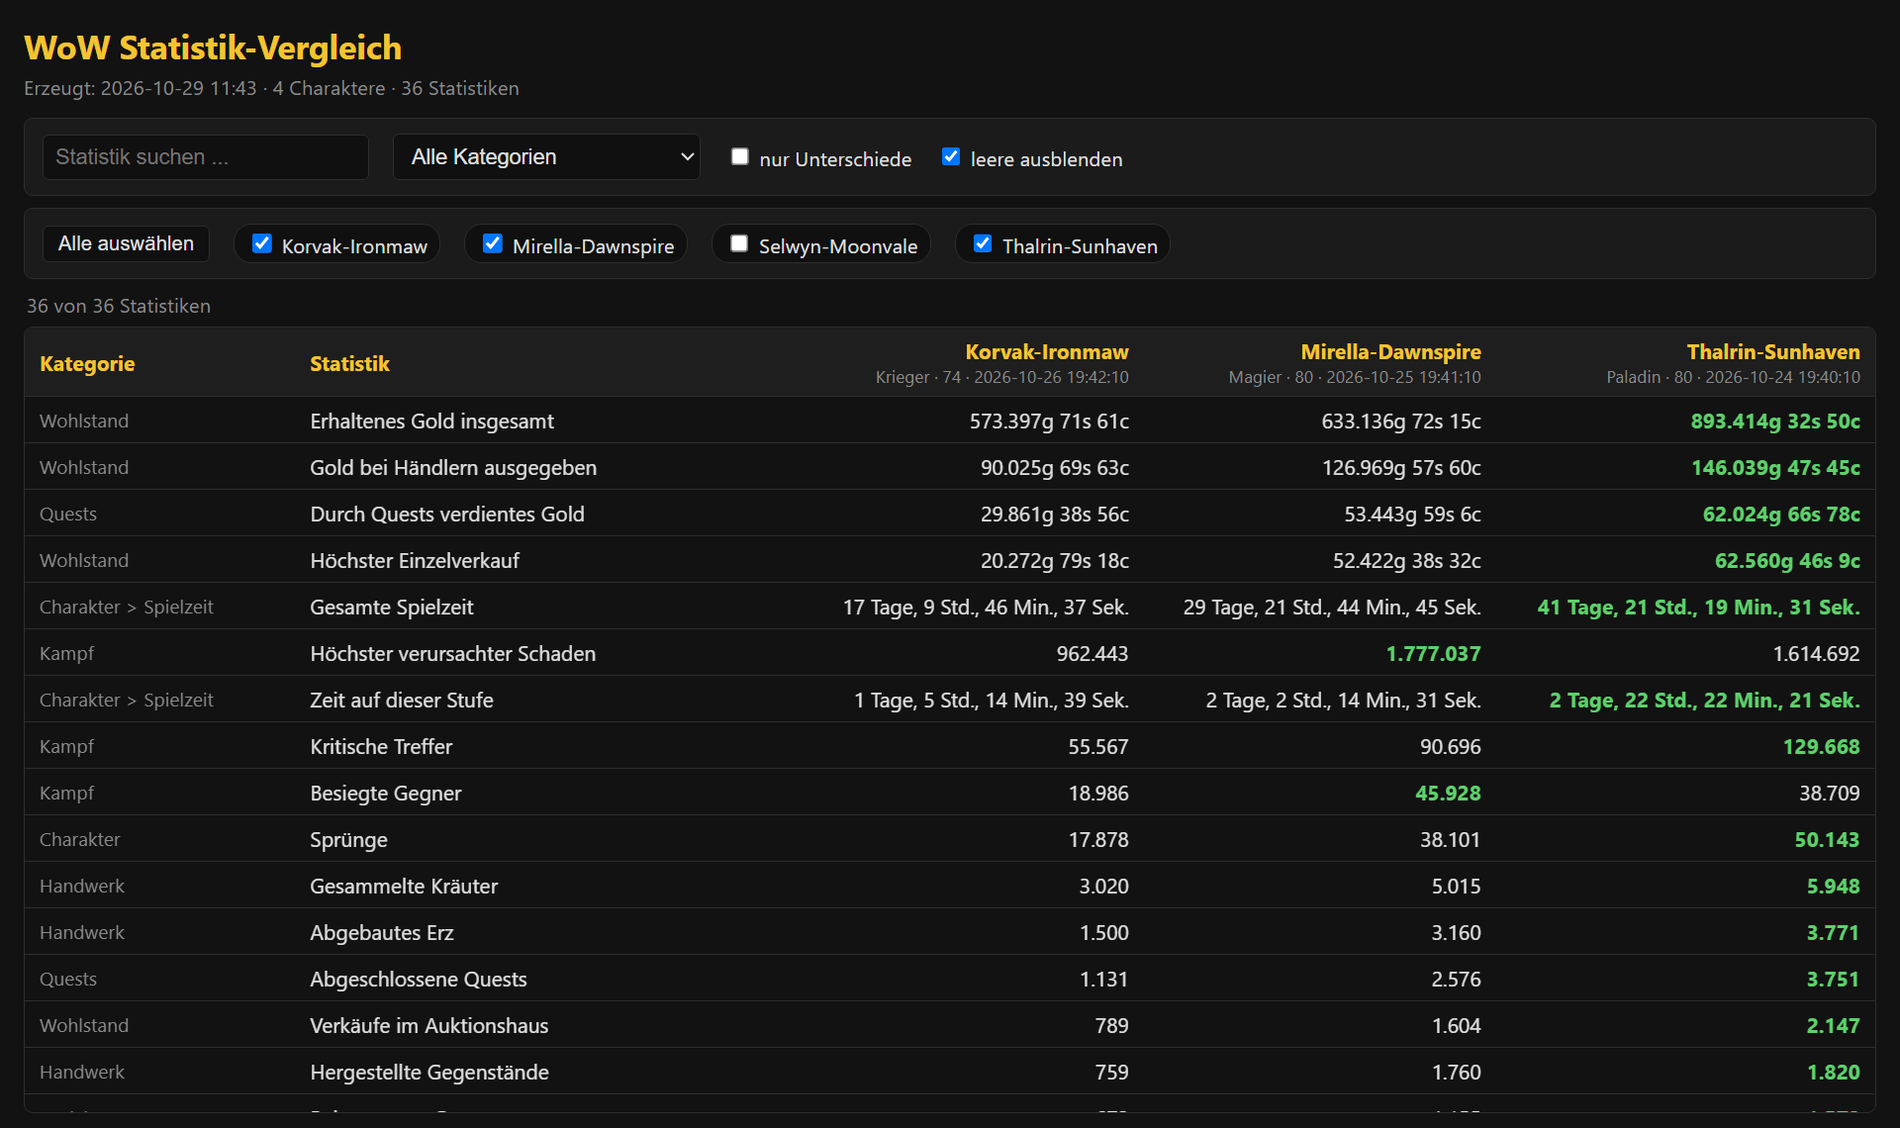
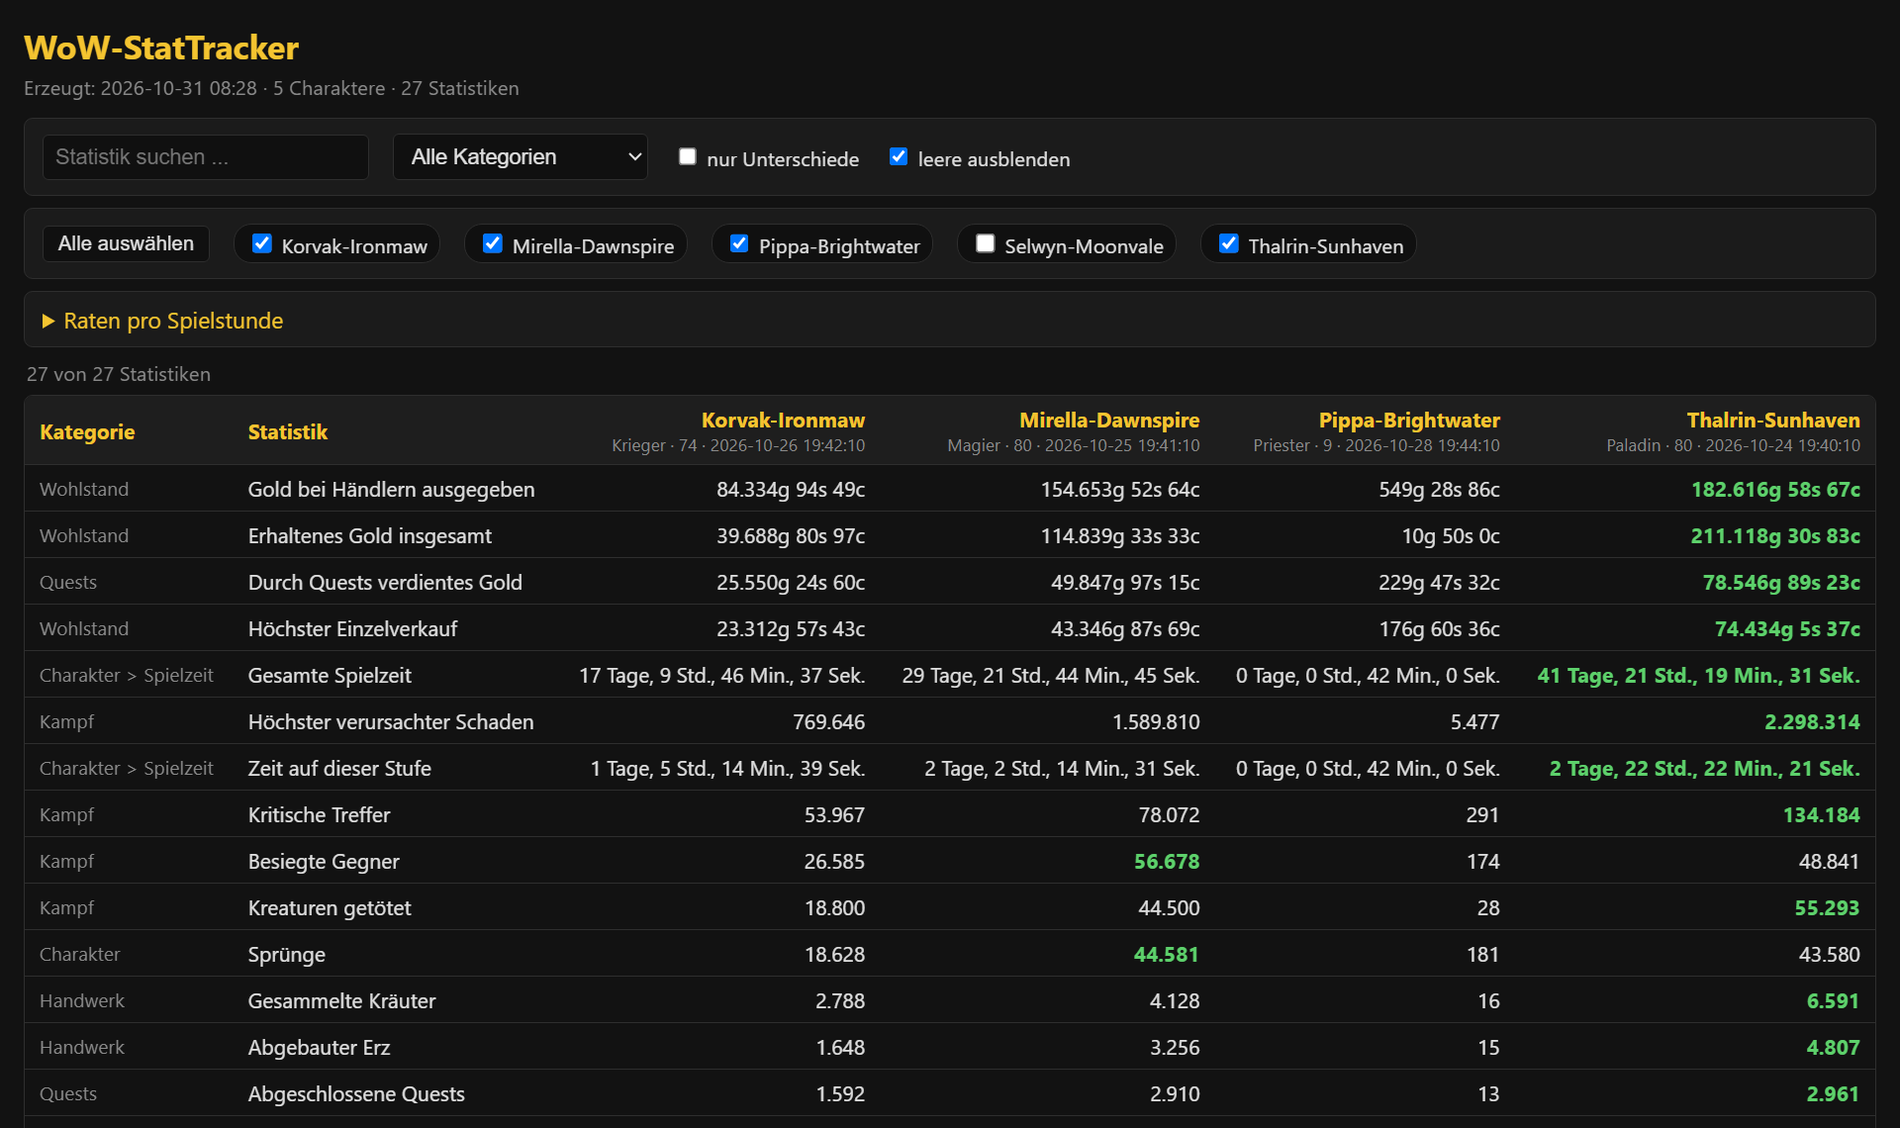
Show the rates on the landing page and add a demo data generator
tools/make_demo.py writes deterministic, invented demo data (five made-up
characters, in German and English) and three variants of the stats page for
screenshots. The landing page screenshots are made again from it, so they show
the current title and footer, and a new picture shows the rates block, including
a character that has too little played time for a rate.

docs/index.html gets a card and a figure for the rates, both READMEs a bullet
point. The READMEs no longer carry a link to their own repository. The recipe
for the screenshots is in docs/DEVELOPMENT.md.

diff --git a/docs/index.html b/docs/index.html
@@ -91,8 +91,8 @@
       <a class="btn primary" href="https://github.com/Wewoc/WoW-StatTracker/releases/latest"><span class="en">Download for Windows</span><span class="de">Für Windows herunterladen</span></a>
       <a class="btn ghost" href="https://github.com/Wewoc/WoW-StatTracker"><span class="en">View on GitHub</span><span class="de">Auf GitHub ansehen</span></a>
     </div>
-    <img class="shot en" src="images/stats-en.png" width="1920" height="1140" alt="The StatTracker stats page: a table comparing four characters, the best value of each row highlighted in green.">
-    <img class="shot de" src="images/stats-de.png" width="1920" height="1140" alt="Die StatTracker-Statistikseite: eine Tabelle vergleicht vier Charaktere, der beste Wert jeder Zeile ist grün hervorgehoben.">
+    <img class="shot en" src="images/stats-en.png" width="1920" height="1140" alt="The StatTracker stats page: a table comparing five characters, the best value of each row highlighted in green.">
+    <img class="shot de" src="images/stats-de.png" width="1920" height="1140" alt="Die StatTracker-Statistikseite: eine Tabelle vergleicht fünf Charaktere, der beste Wert jeder Zeile ist grün hervorgehoben.">
     <p class="note"><span class="en">All screenshots show invented demo data - made-up characters, realms and numbers.</span><span class="de">Alle Bilder zeigen erfundene Demodaten - ausgedachte Charaktere, Realms und Zahlen.</span></p>
   </div>
 
@@ -102,6 +102,8 @@
       <div class="grid">
         <div class="card"><h3><span class="en">Compare characters</span><span class="de">Charaktere vergleichen</span></h3>
           <p><span class="en">Search, filter by category, show only differences, sort by any character. The best value in a row is highlighted. One button selects or deselects all characters.</span><span class="de">Suchen, nach Kategorie filtern, nur Unterschiede zeigen, nach jedem Charakter sortieren. Der beste Wert einer Zeile ist hervorgehoben. Ein Knopf wählt alle Charaktere an oder ab.</span></p></div>
+        <div class="card"><h3><span class="en">Rates per hour played</span><span class="de">Raten pro Spielstunde</span></h3>
+          <p><span class="en">Creatures killed, honorable kills, deaths and gold per hour of played time - for each character and as a total over all of them. If a number cannot be worked out, the page says why instead of guessing.</span><span class="de">Getötete Kreaturen, Ehrenhafte Siege, Tode und Gold pro Spielstunde - je Charakter und insgesamt über alle. Lässt sich eine Zahl nicht berechnen, nennt die Seite den Grund, statt zu raten.</span></p></div>
         <div class="card"><h3><span class="en">Excel export</span><span class="de">Excel-Export</span></h3>
           <p><span class="en">One sheet per game version with a column per character, units for gold and played time, and the best values marked.</span><span class="de">Ein Blatt pro Spielversion mit einer Spalte je Charakter, Einheiten für Gold und Spielzeit und markierten Bestwerten.</span></p></div>
         <div class="card"><h3><span class="en">History in a local database</span><span class="de">Historie in lokaler Datenbank</span></h3>
@@ -129,6 +131,11 @@
           <img class="shot en" loading="lazy" src="images/compare-en.png" width="1920" height="1140" alt="The stats page with one character deselected and the table sorted by a character.">
           <img class="shot de" loading="lazy" src="images/compare-de.png" width="1920" height="1140" alt="Die Statistik-Seite mit einem abgewählten Charakter und nach einem Charakter sortierter Tabelle.">
           <figcaption><span class="en">The stats page with one character deselected and the table sorted by the first character; the best value of each row is green.</span><span class="de">Die Statistik-Seite mit einem abgewählten Charakter, sortiert nach dem ersten Charakter; der beste Wert jeder Zeile ist grün.</span></figcaption>
+        </figure>
+        <figure>
+          <img class="shot en" loading="lazy" src="images/rates-en.png" width="1920" height="1140" alt="The stats page with the rates block open: creatures killed, honorable kills, deaths and gold per hour for each character and as a total; one character shows why it has no rate.">
+          <img class="shot de" loading="lazy" src="images/rates-de.png" width="1920" height="1140" alt="Die Statistik-Seite mit geöffnetem Raten-Block: getötete Kreaturen, Ehrenhafte Siege, Tode und Gold pro Stunde je Charakter und insgesamt; bei einem Charakter steht, warum es keine Rate gibt.">
+          <figcaption><span class="en">Rates per hour played, per character and as a total over all of them. A character with too little played time gets no rate, and the page says why.</span><span class="de">Raten pro Spielstunde, je Charakter und insgesamt über alle. Ein Charakter mit zu wenig Spielzeit bekommt keine Rate, die Seite nennt den Grund.</span></figcaption>
         </figure>
       </div>
     </div>

diff --git a/tools/make_demo.py b/tools/make_demo.py
@@ -1,0 +1,205 @@
+#!/usr/bin/env python3
+# SPDX-License-Identifier: GPL-3.0-or-later
+# Copyright (C) 2026 Wewoc (github.com/wewoc)
+"""Invented demo data for the landing page screenshots (docs/images/).
+Developer tool (not part of the release). Nothing here comes from a real character:
+the names, realms and numbers are made up and the numbers are deterministic, so the
+same pictures can be made again after the stats page changes.
+
+Per language (the statistic names come from the client, so each language gets its own
+database) it writes a SavedVariables-style StatTracker.lua, runs the normal stat_parser
+on it and also writes three variants of the page for the screenshots:
+  shot-stats.html    the page as it is
+  shot-rates.html    the same, with the rates block opened
+  shot-compare.html  one character deselected, sorted by the first character
+
+Usage (from the repository root):
+  python tools/make_demo.py --out <folder>             # both languages
+  python tools/make_demo.py --out <folder> --lang de
+Then one picture per page, 1920 x 1140 (see docs/DEVELOPMENT.md, "Landing page").
+"""
+import argparse
+import random
+import sys
+from pathlib import Path
+
+sys.path.insert(0, str(Path(__file__).resolve().parent.parent / "src"))
+import i18n  # noqa: E402
+import stat_parser  # noqa: E402
+
+LANGS = ("en", "de")
+
+# Invented characters. 'weight' scales the generic counters, 'played' is the total played time
+# in seconds; the last one has too little played time on purpose (the page then says why
+# there is no rate).
+CHARS = (
+    dict(key="Korvak-Ironmaw", cls=("Warrior", "Krieger"), level=74, faction=("Horde", "Horde"),
+         at="2026-10-26 19:42:10", epoch=1793043730, played=1503997, level_played=105279, weight=0.55,
+         mount="Ashen Warwolf"),
+    dict(key="Mirella-Dawnspire", cls=("Mage", "Magier"), level=80, faction=("Alliance", "Allianz"),
+         at="2026-10-25 19:41:10", epoch=1792957270, played=2583885, level_played=180871, weight=1.0,
+         mount="Cloudweaver Drake"),
+    dict(key="Selwyn-Moonvale", cls=("Druid", "Druide"), level=58, faction=("Alliance", "Allianz"),
+         at="2026-10-27 19:43:10", epoch=1793130190, played=579555, level_played=40568, weight=0.25,
+         mount="Moonlit Stag"),
+    dict(key="Thalrin-Sunhaven", cls=("Paladin", "Paladin"), level=80, faction=("Horde", "Horde"),
+         at="2026-10-24 19:40:10", epoch=1792870810, played=3619171, level_played=253341, weight=1.3,
+         mount="Sunmane Charger"),
+    dict(key="Pippa-Brightwater", cls=("Priest", "Priester"), level=9, faction=("Alliance", "Allianz"),
+         at="2026-10-28 19:44:10", epoch=1793216650, played=2520, level_played=2520, weight=0.004,
+         mount="Brightwater Pony"),
+)
+
+# Statistics with a rate (real stat IDs, see stat_derive.ROLES). Per character in the order of
+# CHARS: events or gold per played hour; the counter is rate x hours. 0 is shown as "--" like
+# the game does for a counter that never fired.
+RATE_STATS = (
+    # (stat_id, kind, en name, de name, en category, de category, rates)
+    (107, "count", "Creatures killed", "Kreaturen getötet", "Combat", "Kampf", (45, 62, 30, 55, 40)),
+    (588, "count", "Total honorable kills", "Ehrenhafte Siege insgesamt", "Combat", "Kampf", (1.8, 0, 0.4, 3.6, 0)),
+    (60, "count", "Total deaths", "Tode insgesamt", "Combat", "Kampf", (0.35, 0.18, 0.12, 0.42, 0)),
+    (328, "gold", "Total gold acquired", "Erhaltenes Gold insgesamt", "Wealth", "Wohlstand", (95, 160, 40, 210, 15)),
+)
+
+# Other statistics; the value is base x character weight x a fixed jitter (IDs are invented).
+GENERIC = (
+    # (kind, en name, de name, en category, de category, base)
+    ("count", "Emotes used", "Verwendete Emotes", "Character", "Charakter", 1200),
+    ("count", "Hearthstone uses", "Benutzungen des Ruhesteins", "Character", "Charakter", 260),
+    ("count", "Jumps", "Sprünge", "Character", "Charakter", 38000),
+    ("count", "Flight paths taken", "Bereiste Flugrouten", "Character", "Charakter", 540),
+    ("count", "Dungeons entered", "Betretene Instanzen", "Character", "Charakter", 320),
+    ("count", "Pets collected", "Gesammelte Haustiere", "Character", "Charakter", 240),
+    ("count", "Critical hits", "Kritische Treffer", "Combat", "Kampf", 90000),
+    ("count", "Enemies defeated", "Besiegte Gegner", "Combat", "Kampf", 46000),
+    ("count", "Highest hit dealt", "Höchster verursachter Schaden", "Combat", "Kampf", 1700000),
+    ("count", "Battlegrounds won", "Gewonnene Schlachtfelder", "Combat", "Kampf", 200),
+    ("count", "Duels won", "Gewonnene Duelle", "Combat", "Kampf", 50),
+    ("count", "Fish caught", "Gefangene Fische", "Crafting", "Handwerk", 550),
+    ("count", "Herbs gathered", "Gesammelte Kräuter", "Crafting", "Handwerk", 5000),
+    ("count", "Ore mined", "Abgebauter Erz", "Crafting", "Handwerk", 3200),
+    ("count", "Items crafted", "Hergestellte Gegenstände", "Crafting", "Handwerk", 1700),
+    ("count", "Quests completed", "Abgeschlossene Quests", "Quests", "Quests", 2600),
+    ("count", "Auction house sales", "Verkäufe im Auktionshaus", "Wealth", "Wohlstand", 1600),
+    ("gold", "Gold spent at vendors", "Gold bei Händlern ausgegeben", "Wealth", "Wohlstand", 126000),
+    ("gold", "Gold earned from quests", "Durch Quests verdientes Gold", "Quests", "Quests", 53000),
+    ("gold", "Highest single sale", "Höchster Einzelverkauf", "Wealth", "Wohlstand", 52000),
+)
+MOUNT = ("Favourite mount", "Lieblingsreittier", "Character", "Charakter")
+GENERIC_FIRST_ID = 9001            # far away from the real IDs used above
+
+COMPARE_JS = ('$("chk_Selwyn-Moonvale").checked = false; '
+              'sortChar = "Korvak-Ironmaw"; sortDir = -1; render();')
+
+
+def _number(n, i):
+    """Thousands separator of the client language (i: 0 = en, 1 = de)."""
+    return f"{n:,}".replace(",", "." if i else ",")
+
+
+def _count_text(n, i):
+    return "--" if n == 0 else _number(n, i)
+
+
+def _gold_text(copper, i):
+    gold, rest = divmod(copper, 10000)
+    silver, cop = divmod(rest, 100)
+    return f"{_number(gold, i)}g {silver}s {cop}c" if gold else f"{silver}s {cop}c"
+
+
+def _jitter(stat_id, char_index):
+    return random.Random(f"{stat_id}:{char_index}").uniform(0.8, 1.25)
+
+
+def _tables(i):
+    """(meta, stats): meta = {id: (name, category)}, stats = [{id: text}] per character."""
+    meta = {}
+    stats = [{} for _ in CHARS]
+    for sid, kind, en, de, cat_en, cat_de, rates in RATE_STATS:
+        meta[sid] = ((en, de)[i], (cat_en, cat_de)[i])
+        for n, c in enumerate(CHARS):
+            amount = rates[n] * c["played"] / 3600
+            stats[n][sid] = (_gold_text(round(amount * 10000), i) if kind == "gold"
+                             else _count_text(round(amount), i))
+    for k, (kind, en, de, cat_en, cat_de, base) in enumerate(GENERIC):
+        sid = GENERIC_FIRST_ID + k
+        meta[sid] = ((en, de)[i], (cat_en, cat_de)[i])
+        for n, c in enumerate(CHARS):
+            value = base * c["weight"] * _jitter(sid, n)
+            stats[n][sid] = (_gold_text(round(value * 10000), i) if kind == "gold"
+                             else _count_text(round(value), i))
+    sid = GENERIC_FIRST_ID + len(GENERIC)
+    meta[sid] = (MOUNT[i], MOUNT[2 + i])
+    for n, c in enumerate(CHARS):
+        stats[n][sid] = c["mount"]
+    return meta, stats
+
+
+def _lua_str(text):
+    assert '"' not in text and "\\" not in text, text
+    return f'"{text}"'
+
+
+def build_lua(lang):
+    """The demo SavedVariables file (StatTrackerDB) for one language."""
+    i = LANGS.index(lang)
+    meta, stats = _tables(i)
+    out = ["StatTrackerDB = {", '\t["version"] = 2,', '\t["auto"] = true,', '\t["meta"] = {']
+    for sid, (name, cat) in meta.items():
+        out.append(f'\t\t[{sid}] = {{ ["name"] = {_lua_str(name)}, ["cat"] = {_lua_str(cat)} }},')
+    out += ["\t},", '\t["chars"] = {']
+    for c, values in zip(CHARS, stats):
+        out += [f'\t\t[{_lua_str(c["key"])}] = {{',
+                f'\t\t\t["scannedAt"] = {_lua_str(c["at"])}, ["scannedEpoch"] = {c["epoch"]},',
+                f'\t\t\t["class"] = {_lua_str(c["cls"][i])}, ["level"] = {c["level"]}, '
+                f'["faction"] = {_lua_str(c["faction"][i])},',
+                '\t\t\t["stats"] = {']
+        out += [f"\t\t\t\t[{sid}] = {_lua_str(text)}," for sid, text in values.items()]
+        out += ["\t\t\t},",
+                f'\t\t\t["playedTotal"] = {c["played"]}, ["playedLevel"] = {c["level_played"]},',
+                "\t\t},"]
+    out += ["\t},", "}", ""]
+    return "\n".join(out)
+
+
+def shot_variants(html):
+    """The screenshot pages made from the generated one: {file name: html}. Only these copies
+    get the extra lines; the real template is not touched."""
+    rates = html.replace('<details class="rates"', '<details class="rates" open', 1)
+    compare = html.replace("init();\n</script>", f"init();\n{COMPARE_JS}\n</script>", 1)
+    assert rates != html and compare != html, "template changed: adjust shot_variants"
+    return {"shot-stats.html": html, "shot-rates.html": rates, "shot-compare.html": compare}
+
+
+def make(out_dir, lang):
+    """Writes the demo for one language into <out_dir>/<lang>/ and returns that folder."""
+    folder = Path(out_dir) / lang
+    folder.mkdir(parents=True, exist_ok=True)
+    lua = folder / "StatTracker.lua"
+    lua.write_text(build_lua(lang), encoding="utf-8")
+    db = folder / "demo.db"
+    if db.exists():
+        db.unlink()                     # always from scratch: same input, same pages
+    page = folder / "stats.html"
+    previous = i18n.get_language()
+    i18n.set_language(lang)
+    try:
+        stat_parser.main(["--input", str(lua), "--db", str(db), "--output", str(page)])
+    finally:
+        i18n.set_language(previous)
+    for name, text in shot_variants(page.read_text(encoding="utf-8")).items():
+        (folder / name).write_text(text, encoding="utf-8")
+    return folder
+
+
+def main(argv=None):
+    ap = argparse.ArgumentParser(description=__doc__, formatter_class=argparse.RawDescriptionHelpFormatter)
+    ap.add_argument("--out", required=True, help="folder for the demo files (outside the repository)")
+    ap.add_argument("--lang", choices=LANGS + ("both",), default="both")
+    a = ap.parse_args(argv)
+    for lang in (LANGS if a.lang == "both" else (a.lang,)):
+        print(make(a.out, lang))
+
+
+if __name__ == "__main__":
+    main()

diff --git a/tests/test_make_demo.py b/tests/test_make_demo.py
@@ -1,0 +1,70 @@
+# SPDX-License-Identifier: GPL-3.0-or-later
+# Copyright (C) 2026 Wewoc (github.com/wewoc)
+# The demo data generator behind the landing page screenshots (tools/make_demo.py):
+# deterministic, shows every kind of rate result, and uses nothing but invented names.
+
+import importlib.util
+import json
+import re
+from pathlib import Path
+
+import pytest
+
+import i18n
+import stat_derive
+
+TOOL = Path(__file__).resolve().parent.parent / "tools" / "make_demo.py"
+spec = importlib.util.spec_from_file_location("make_demo", TOOL)
+make_demo = importlib.util.module_from_spec(spec)
+spec.loader.exec_module(make_demo)
+
+
+def _data(folder):
+    text = (folder / "stats.html").read_text(encoding="utf-8")
+    return json.loads(re.search(r"const DATA = (\{.*?\});\n", text, re.S).group(1).replace("<\\/", "</"))
+
+
+@pytest.mark.parametrize("lang", ["en", "de"])
+def test_demo_page_shows_a_rate_a_zero_and_a_reason(tmp_path, lang):
+    folder = make_demo.make(tmp_path, lang)
+    data = _data(folder)
+    assert data["lang"] == lang
+    assert [c["key"] for c in data["chars"]] == sorted(c["key"] for c in make_demo.CHARS)
+
+    roles = {r["role"]: r for r in data["derived"]["roles"]}
+    assert set(roles) == {r.key for r in stat_derive.ROLES}
+    for role in roles.values():
+        assert role["chars"]["Pippa-Brightwater"]["reason"] == "too_little_played"
+        assert (role["total"]["used"], role["total"]["of"]) == (4, 5)
+        assert all("rate" in role["chars"][c] for c in
+                   ("Korvak-Ironmaw", "Mirella-Dawnspire", "Selwyn-Moonvale", "Thalrin-Sunhaven"))
+    assert roles["kills_pvp"]["chars"]["Mirella-Dawnspire"]["rate"] == 0      # "--" shown as 0
+
+
+@pytest.mark.parametrize("lang", ["en", "de"])
+def test_demo_rates_are_close_to_the_invented_ones(tmp_path, lang):
+    roles = {r["role"]: r for r in _data(make_demo.make(tmp_path, lang))["derived"]["roles"]}
+    by_stat = {"kills_pve": 107, "kills_pvp": 588, "deaths": 60, "gold": 328}
+    for stat in make_demo.RATE_STATS:
+        role = next(k for k, v in by_stat.items() if v == stat[0])
+        for char, wanted in zip(make_demo.CHARS[:4], stat[6][:4]):
+            assert roles[role]["chars"][char["key"]]["rate"] == pytest.approx(wanted, rel=0.02, abs=0.02)
+
+
+def test_demo_is_deterministic():
+    assert make_demo.build_lua("en") == make_demo.build_lua("en")
+    assert make_demo.build_lua("de") != make_demo.build_lua("en")
+
+
+def test_screenshot_variants_leave_the_real_page_alone(tmp_path):
+    folder = make_demo.make(tmp_path, "en")
+    page = (folder / "stats.html").read_text(encoding="utf-8")
+    assert 'class="rates" open' not in page and "sortChar = \"Korvak" not in page
+    assert 'class="rates" open' in (folder / "shot-rates.html").read_text(encoding="utf-8")
+    assert 'sortChar = "Korvak-Ironmaw"' in (folder / "shot-compare.html").read_text(encoding="utf-8")
+
+
+def test_language_is_restored(tmp_path):
+    i18n.set_language("en")
+    make_demo.make(tmp_path, "de")
+    assert i18n.get_language() == "en"

diff --git a/docs/DEVELOPMENT.md b/docs/DEVELOPMENT.md
@@ -57,6 +57,14 @@ screenshots show invented demo data only; `tests/test_docs_site.py` checks that 
 exists in both languages and that nothing is loaded from a third party. If you change the
 repository owner/name, update the GitHub links in `docs/index.html` as well.
 
+To redo the screenshots after the stats page changed: `python tools/make_demo.py --out <folder outside the repository>`
+writes invented demo data per language and three variants of the page (`shot-stats.html`,
+`shot-rates.html`, `shot-compare.html`). Take one picture of each with Edge or Chrome in headless
+mode, 1280 x 760 at scale 1.5 (= 1920 x 1140), for example
+`msedge --headless=new --hide-scrollbars --force-device-scale-factor=1.5 --window-size=1280,760 --screenshot=stats-en.png file:///<folder>/en/shot-stats.html`,
+and copy them to `docs/images/` as `stats-`, `rates-` and `compare-` plus `en`/`de`. `app-*.png`
+(the program window) is taken by hand.
+
 ## Layout
 
 ```
@@ -64,7 +72,7 @@ src/            application code (flat modules), template.html, updater_helper.p
 addon/          the WoW addon (copied into AddOns by the program)
 compiler/       PyInstaller build
 tests/          pytest
-tools/          developer helpers (check_stats.py) - not part of the release
+tools/          developer helpers (check_stats.py, make_demo.py) - not part of the release
 docs/           this file
 ```
 

diff --git a/README.md b/README.md
@@ -6,11 +6,10 @@ StatTracker reads the **game statistics** of your World of Warcraft characters t
 
 - Windows program with a small window - no Python needed (release download)
 - English and German interface (dropdown in the window)
+- Rates per hour played (kills, deaths, gold) for each character and as a total; if a number cannot be worked out, the page says why
 - Works per game version; by default only **Retail** is enabled
 - Installs and uninstalls its addon for you
 - Checks GitHub for new versions and can update itself (verified by checksum, with rollback)
-
-> Repository: [github.com/Wewoc/WoW-StatTracker](https://github.com/Wewoc/WoW-StatTracker)
 
 ## Quick start (release download)
 
